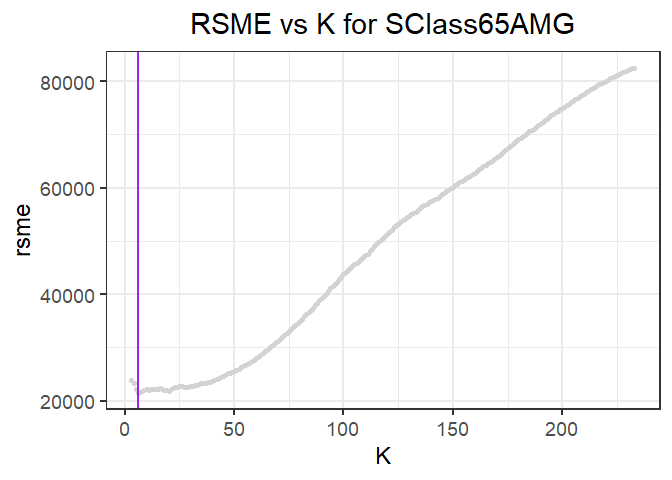
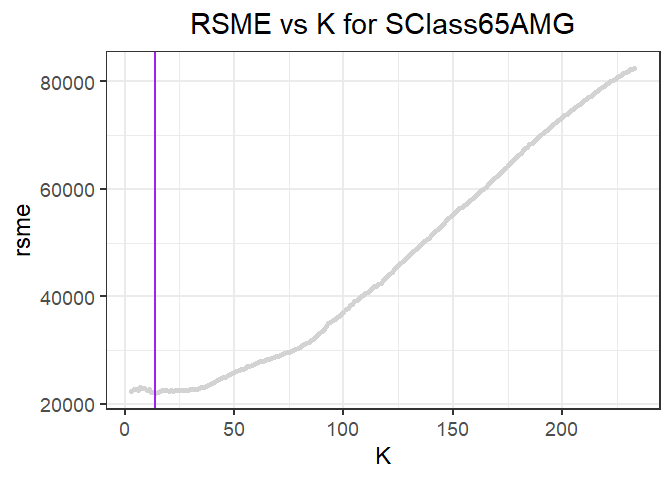
d
d

diff --git a/hw1.md b/hw1.md
@@ -1,11 +1,8 @@
-Bernardo Arreal Magalhaes - UTEID ba25727
-=========================================
+### Bernardo Arreal Magalhaes - UTEID ba25727
 
-Adhish Luitel - UTEID al49674
-=============================
+### Adhish Luitel - UTEID al49674
 
-Ji Heon Shim - UTEID js93996
-============================
+### Ji Heon Shim - UTEID js93996
 
 Exercise 1
 ==========
@@ -14,25 +11,29 @@ Exercise 1.1
 ------------
 
 In this question, we have all the data of flight information that arrive
-at or depart from Austin-Berstrom International Airport.
+at or depart from Austin-Bergstrom International Airport.
 
-### Which airline company has the highest cancellation rate?
+### Which airline has the highest cancellation rate?
 
-First, we’ll have a close look on cancellation rates by airline
-companies. Our data shows that American Eagle Airline (MQ), the regional
-brand of American Airlines, has the highest cancellation rate among all
-the airlines flying from Austin.
+First, we’ll have a close look on cancellation rates by airlines. Our
+data shows that Envoy Air(formerly American Eagle Airlines, MQ), the
+regional brand of American Airlines, has the highest cancellation rate
+among all the airlines flying from Austin.
 
 ![](hw1_files/figure-markdown_github/1.1.2-1.png)
 
-### Which destination is likely to cause the longest departure delay?
+### Which destination is related to the longest departure delay?
 
 Next, we examined all the flights departing from Austin, and arranged
 departure delays by their destinations. Our analysis shows that DSM (Des
-Moines International Airport - Iowa) is the destination which causes the
-most departure delay from Austin. It is important to notice that there
-was only one flight to this destination during the entire year of 2018,
-what explain such a discrepancy from the other destinations.
+Moines International Airport - Iowa) is the destination which has the
+longest average departure delay time from Austin. It is important to
+notice that there was only one flight to this destination during the
+entire year of 2008, what explains such a discrepancy from the other
+destinations.  
+The second one is EWR(Newark Liberty International Airport - NJ). There
+were 941 flights flew from Austin to EWR in 2008, and the average
+departure delay time was 20 minutes.
 
 ![](hw1_files/figure-markdown_github/1.1.3-1.png)
 
@@ -42,23 +43,24 @@ Next, we arranged our departure delay data by scheduled departure time.
 Our analysis shows that departure delays are most likely to happen
 between 0 to 1 o’clock at night. We don’t know the exact explanation for
 this, but among possible conjectures we think it might be due to the
-fact that late night flights “carry-on” the delays acumulated during the
-day since it operates with the aircrafts that are arriving from other
-destinations. It might be the reason why late-night flights are sold by
-lowest fares.
+fact that late night flights “carry-over” the delays accumulated during
+the day since it operates with the aircrafts that are arriving from
+other destinations. It might be the reason why late-night flights are
+sold by lowest fares.
 
 ![](hw1_files/figure-markdown_github/1.1.4-1.png)
 
 Now, we arranged our arrival delay data by scheduled arrival time. Our
 analysis shows that arrival delays are most likely to happen between 22
 to 23 o’clock at night. Again, we can reasonably argue that it might be
-due to the “carry-on” effect of the delays acumulated during the day.
+due to the “carry-over” effect of the delays accumulated during the day.
+
 ![](hw1_files/figure-markdown_github/1.1.5-1.png)
 
 ### Which month of year does flight delay mostly occur?
 
 This time, we’ll extend our view from day to year to find out the month
-which flight delay mostly occurs. In case of departure delays from
+in which flight delay mostly occurs. In case of departure delays from
 Austin, December is the worst month if someone wants to avoid any
 delays. If you depart from Austin in December, you’ll expect more than
 15 minutes of delay on average - what matches with common sense that the
@@ -72,7 +74,7 @@ end of year.
 
 ![](hw1_files/figure-markdown_github/1.1.7-1.png)
 
-### Which airline company shows the longest delay time?
+### Which airline shows the longest delay time?
 
 Now, we’ll see which airline company shows the longest delay time. In
 case of departure delays, ExpressJet Airlines (EV) shows the worst
@@ -94,9 +96,6 @@ average arrival delay time for OH.
 When focusing on the most common destinations for flights departing from
 ABIA, we can see that Dallas, Houston, Phoenix and Denver concentrate
 approximately 40% of the flights leaving Austin.
-
-    ## Warning: Column `Dest`/`iata_code` joining factors with different levels,
-    ## coercing to character vector
 
 ![](hw1_files/figure-markdown_github/1.1.10-1.png)
 
@@ -128,8 +127,8 @@ indicates a negative relationship between mileage and price.
 
 In supervised learning, we used a training dataset, containing 80% of
 the outcomes(datapoints) randomly assigned, to train the machine. We
-then use testing dataset that has the other 20% of the data to predict
-outcomes.Given the fact that the dataset was randomly splitted and that
+then used testing dataset that had the other 20% of the data to predict
+outcomes. Given the fact that the dataset was randomly splitted and that
 the sample size is limitted, it is important to note that one might come
 up with different results every time.
 
@@ -137,15 +136,7 @@ We added a linear model to our analysis as a comparison metric as to our
 hypothesis of how the prices should be falling as per the rise in
 mileage.
 
-``` r
-ggplot(data = D_test) + 
-geom_point(mapping = aes(x = mileage, y = price), color='lightgrey') + 
-theme_bw(base_size=18) + geom_path(aes(x = mileage, y = ypred_lm2), color='red') +
-labs(title = "Linear Model's price prediction for SClass350")+
-theme(plot.title = element_text(hjust = 0.5))
-```
-
-![](hw1_files/figure-markdown_github/unnamed-chunk-1-1.png)
+![](hw1_files/figure-markdown_github/1.2.3.1-1.png)
 
 Now, we ran K-nearest-neighbors for k, starting from k=3 to the sample
 size. We faced an error when k=2 given the fact that the KNN function
@@ -173,11 +164,11 @@ optimal K changes and so would RSME. So our K and RSME would change
 everytime we take a random sample and run a KNN regression. We found
 that the optimal K was the following.
 
-    ## [1] 39
+    ## [1] 46
 
 The RSME associated with that K is the following.
 
-    ## [1] 8788.867
+    ## [1] 9883.814
 
 Now we can do the same with the 65AMG trim.
 
@@ -216,17 +207,16 @@ and run a KNN regression.
 
 We found that the optimal K was the following.
 
-    ## [1] 6
+    ## [1] 14
 
 The RSME associated with that K is the following.
 
-    ## [1] 21528.67
+    ## [1] 22044.06
 
 We can see that the optimal k value is larger in subgroup 65 AMG than
 sclass Sclass 350. However, we can’t assess whether it is due to a
 different pattern or a difference in the randomization process.
 
 In addition, samples in 350 are more dispersed than those in 65 AMG. The
-large variance of sample can be aruged as giving a better ‘data quality’
-and this could be one factor which attributes to a different value of k
-for the 350 sub-class.
+large variance of sample can be aruged as the factor which yields to a
+different value of k for the 350 sub-class.
